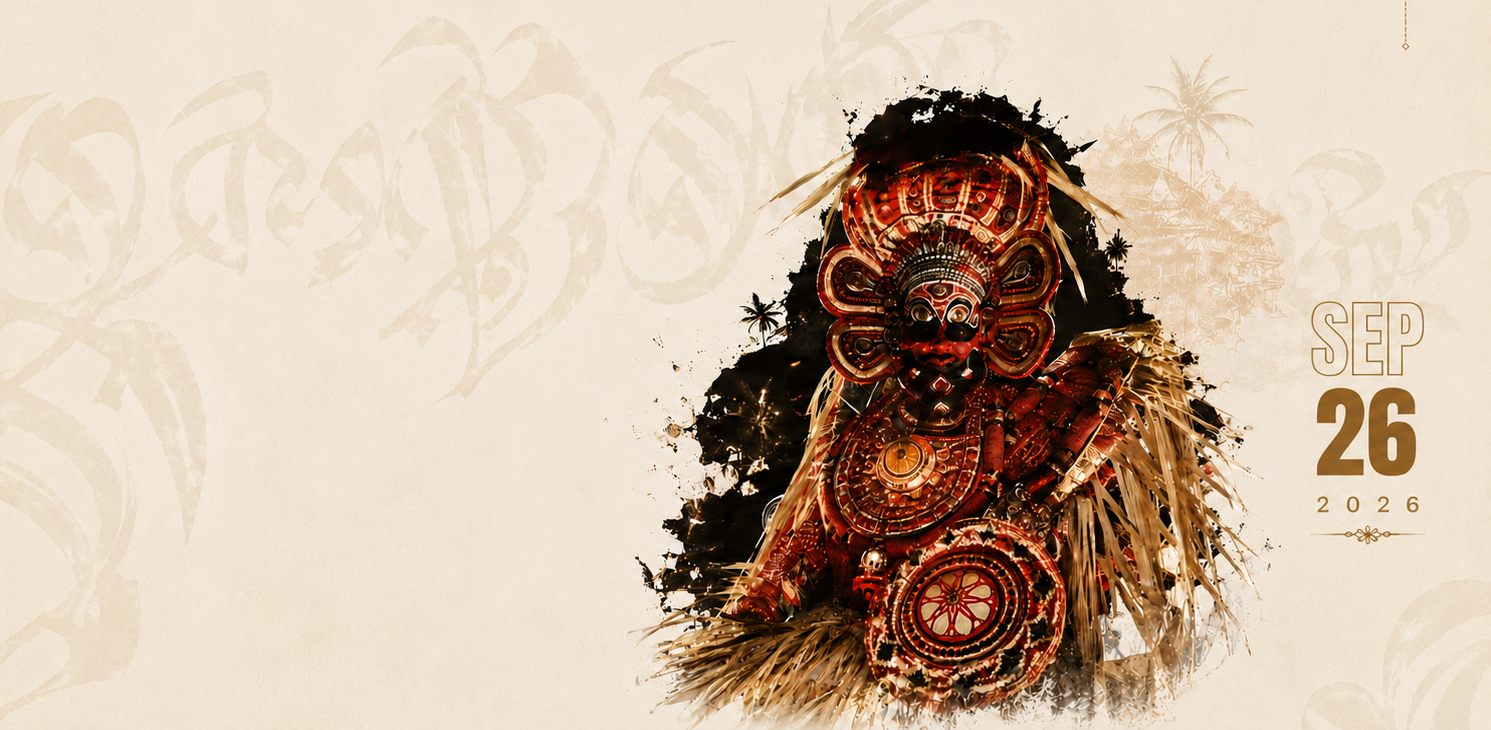
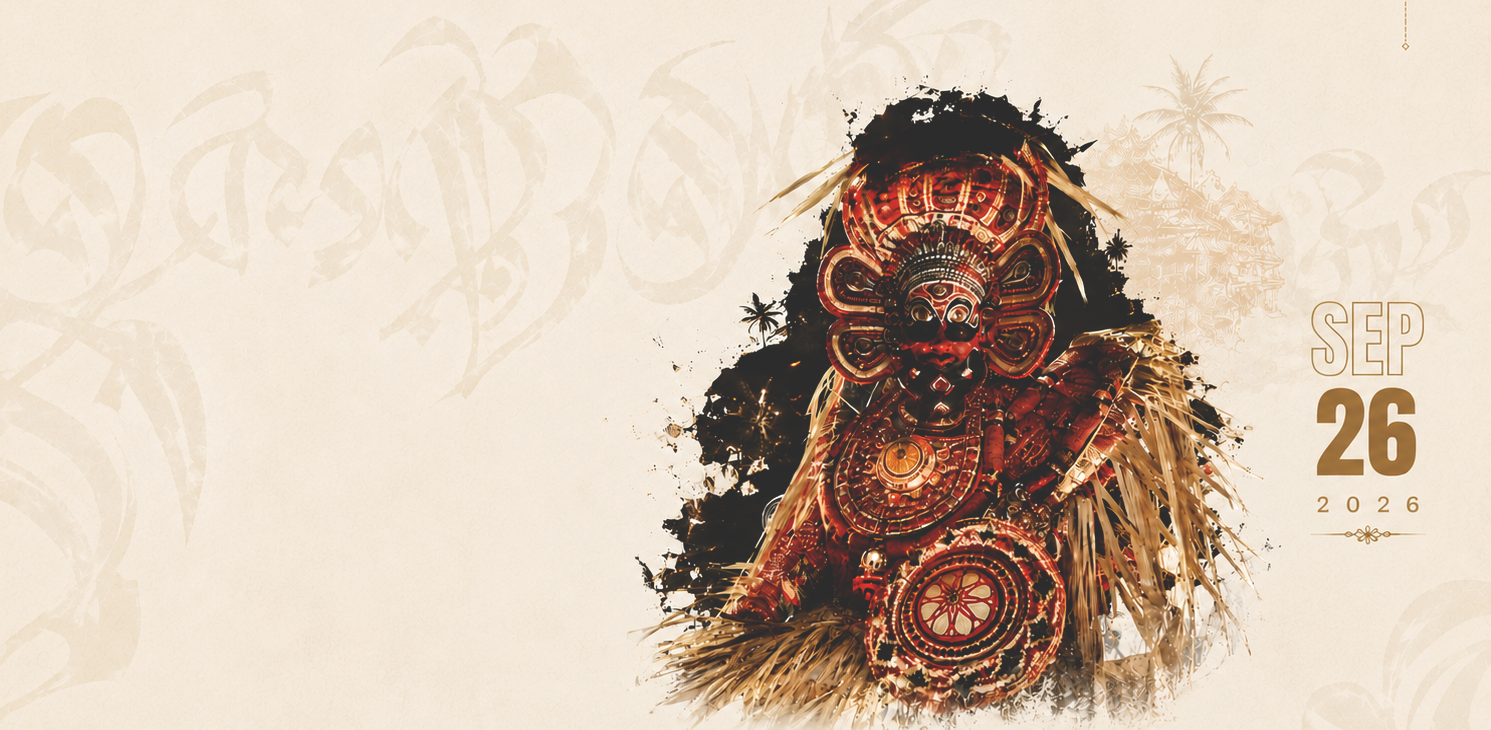
Update scroll reveal animations

Changed region(s): [[0.4319, 0.1205, 0.833, 0.9644]]

diff --git a/src/components/ScrollReveal.jsx b/src/components/ScrollReveal.jsx
@@ -1,6 +1,6 @@
 import React, { useEffect, useRef, useState } from 'react';
 
-export const ScrollReveal = ({ children, delay = 0, className = '' }) => {
+export const ScrollReveal = ({ children, delay = 150, className = '' }) => {
   const [isRevealed, setIsRevealed] = useState(false);
   const domRef = useRef(null);
 
@@ -22,7 +22,7 @@ export const ScrollReveal = ({ children, delay = 0, className = '' }) => {
         });
       },
       {
-        threshold: 0.08, // Trigger when at least 8% of the element is visible
+        threshold: 0.15, // Trigger when at least 15% of the element is visible (slightly later than before)
       }
     );
 

diff --git a/src/index.css b/src/index.css
@@ -348,7 +348,7 @@ p,
 .reveal-on-scroll {
   opacity: 0;
   transform: translateY(30px);
-  transition: opacity 1.2s var(--ease-editorial), transform 1.2s var(--ease-editorial);
+  transition: opacity 1.4s var(--ease-editorial), transform 1.4s var(--ease-editorial);
 }
 
 .reveal-on-scroll.revealed {
